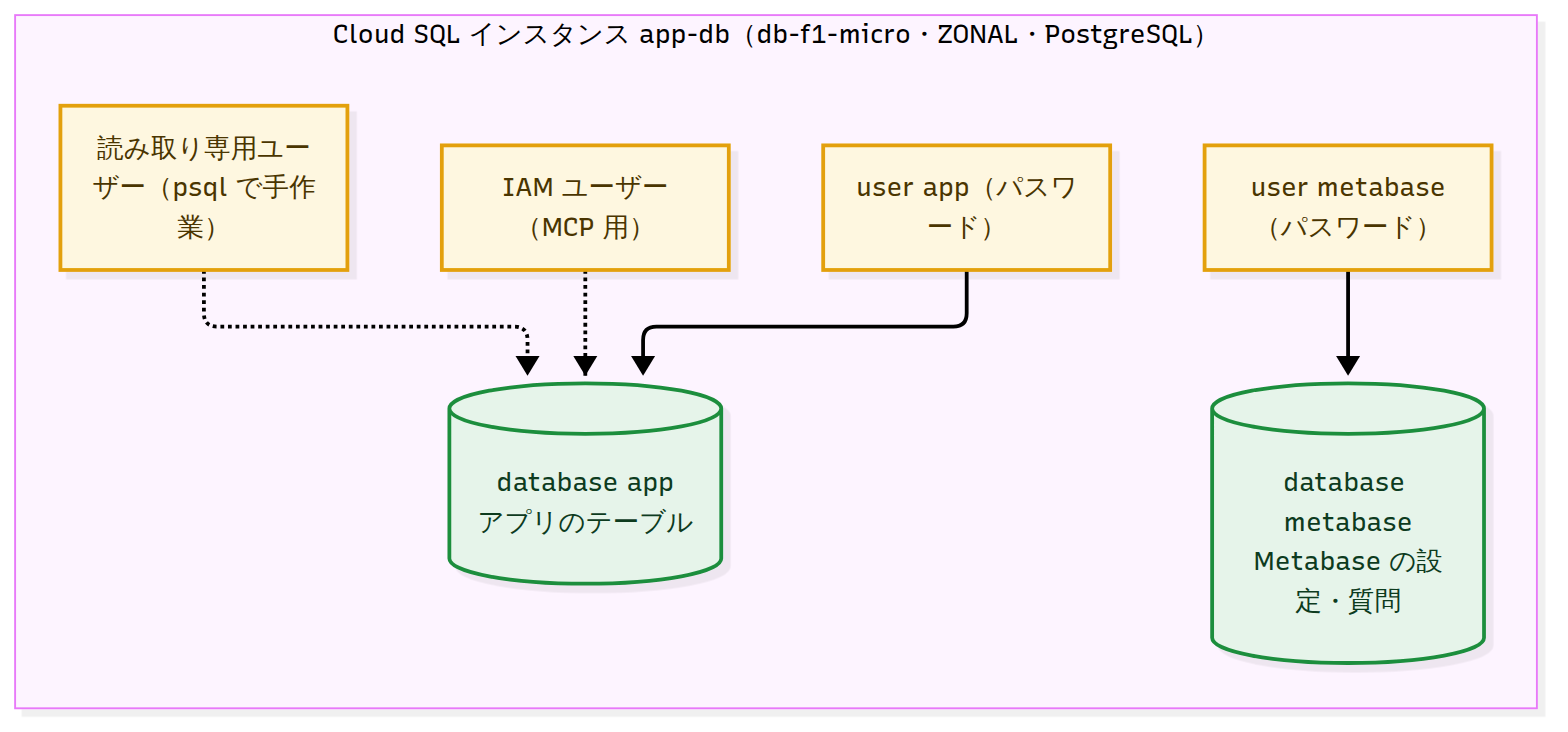
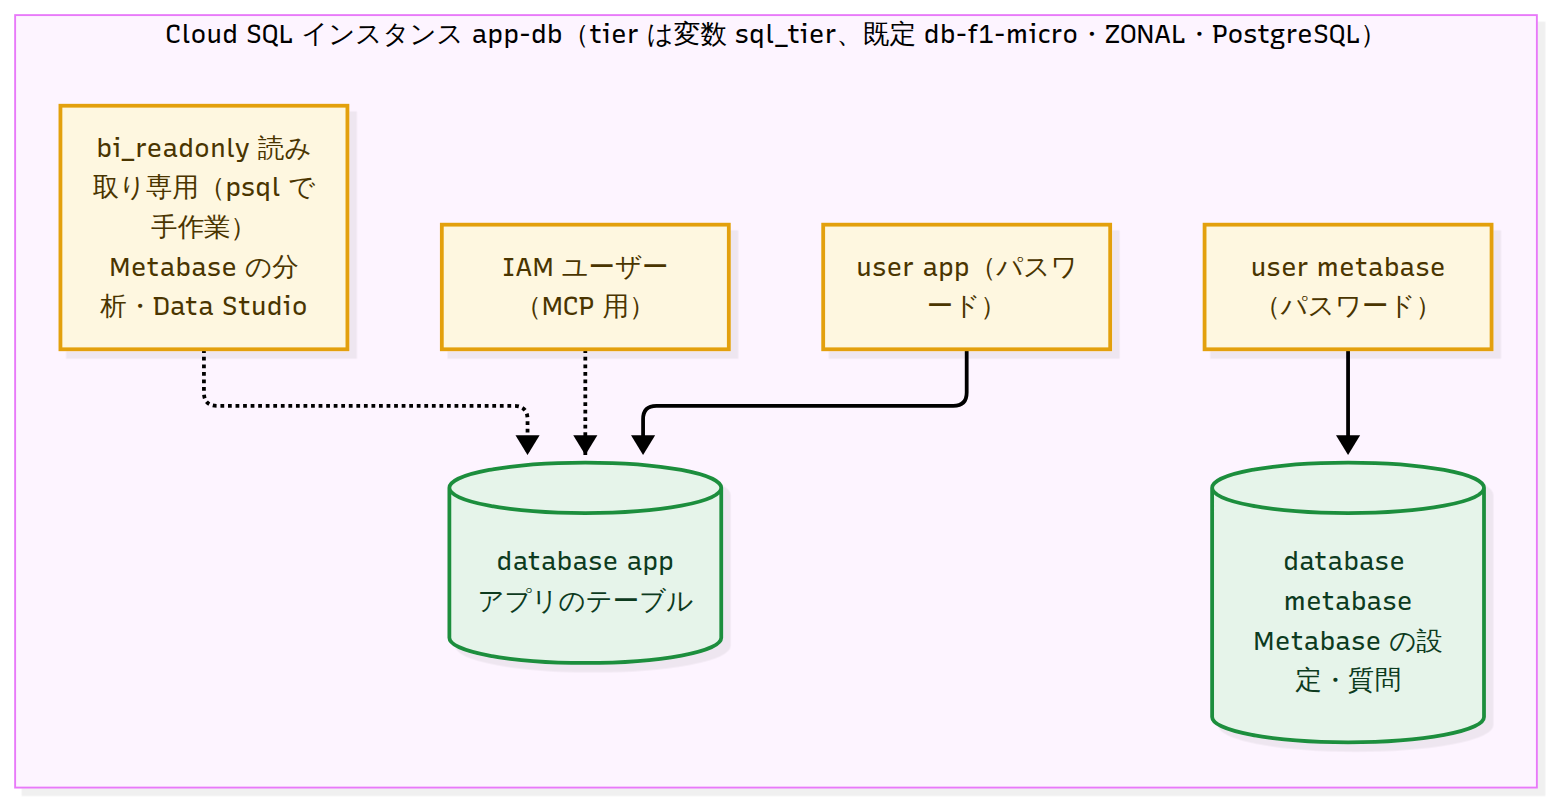
docs: reviewer の指摘で構成図の経路と render-diagrams のテストを直す
🎯 WHY
reviewer の検証で、図の不正確な点（Metabase から app DB への経路が無い・手動実行が prod 専用に見える）と、テストが見逃す変更（MMDC のクォート・Playwright からの Chromium の探し方）が見つかった。

📝 WHAT
- system: Metabase から DB app への bi_readonly の経路、Data Studio の bi_readonly、migrate job への線のラベル
- deploy: 手動実行は stg / prod、承認は required reviewers を付けたときだけ、失敗はどの step でも止まる
- iam: repo id の一致は設定したときだけ。database: tier は変数、bi_readonly の説明
- render-diagrams.test.ts: MMDC を 2 語で渡す、Playwright から Chromium を探す must pass / must reject を追加
- 作業ログ: 図のずれを CI で縛らない daiki の判断を記録

🛠 実装経緯
daiki の判断で、図と Terraform のずれは CI で検査せず、変えたときにスキルを呼ぶ運用にした。JSON へのパスの埋め込み（" を含むパス）は実害が小さいので直していない。

✅ 検証内容
- fault injection: "$MMDC" とクォート → 4 件落ちる、executablePath を存在しない関数に → 1 件落ちる
- 4 枚を描き直して画像を確認した
- vitest（render-diagrams・rule-tests）と pnpm lint / pnpm typecheck が通った

Claude-Session: https://claude.ai/code/session_012nsSevSuHt3gSWErv8VRZT

diff --git a/scripts/render-diagrams.test.ts b/scripts/render-diagrams.test.ts
@@ -63,12 +63,14 @@ afterEach(() => {
   rmSync(workDir, { recursive: true, force: true });
 });
 
-function run(env: Record<string, string>) {
-  return spawnSync("bash", [scriptPath, diagramsDir], {
+// WHY MMDC を 2 語にする: 既定の MMDC（pnpm dlx …）は空白を含み、スクリプトは単語に分けて呼ぶ。1 語の偽物だと、
+//   "$MMDC" とクォートして既定の呼び出しが壊れる変更を見逃す（reviewer の指摘）。
+function run(env: Record<string, string>, script = scriptPath) {
+  return spawnSync("bash", [script, diagramsDir], {
     encoding: "utf8",
     env: {
       ...process.env,
-      MMDC: fakeMmdc,
+      MMDC: `${fakeMmdc} --fake-subcommand`,
       PUPPETEER_EXECUTABLE_PATH: fakeBrowser,
       ...env,
     },
@@ -93,8 +95,8 @@ describe("render-diagrams.sh（must pass: 描く）", () => {
     // then
     expect(result.status).toBe(0);
     expect(calls()).toEqual([
-      `deploy.mmd -> deploy.png -s 2 -b white -q {"executablePath":"${fakeBrowser}","args":["--no-sandbox"]}`,
-      `system.mmd -> system.png -s 2 -b white -q {"executablePath":"${fakeBrowser}","args":["--no-sandbox"]}`,
+      `deploy.mmd -> deploy.png --fake-subcommand -s 2 -b white -q {"executablePath":"${fakeBrowser}","args":["--no-sandbox"]}`,
+      `system.mmd -> system.png --fake-subcommand -s 2 -b white -q {"executablePath":"${fakeBrowser}","args":["--no-sandbox"]}`,
     ]);
     expect(readFileSync(join(diagramsDir, "system.png"), "utf8")).toBe(
       "png of system.mmd\n",
@@ -120,6 +122,74 @@ describe("render-diagrams.sh（must pass: 描く）", () => {
       "system.mmd",
       "system.png",
     ]);
+  });
+});
+
+// PUPPETEER_EXECUTABLE_PATH が無いときに使う Chromium（E2E の Playwright）の探し方。スクリプトを一時ディレクトリの
+//   リポジトリの形（scripts/ と apps/e2e/）に置き、apps/e2e から読む @playwright/test を偽物にする。
+//   NODE_PATH は空にする（クラウドセッションの NODE_PATH の global の @playwright/test を拾わせない）。
+function scriptInFakeRepo(withPlaywright: boolean): string {
+  const fakeRepo = join(workDir, "repo");
+  mkdirSync(join(fakeRepo, "scripts"), { recursive: true });
+  mkdirSync(join(fakeRepo, "apps", "e2e"), { recursive: true });
+  writeFileSync(
+    join(fakeRepo, "scripts", "render-diagrams.sh"),
+    readFileSync(scriptPath, "utf8"),
+  );
+  if (withPlaywright) {
+    const playwright = join(
+      fakeRepo,
+      "apps",
+      "e2e",
+      "node_modules",
+      "@playwright",
+      "test",
+    );
+    mkdirSync(playwright, { recursive: true });
+    writeFileSync(
+      join(playwright, "index.js"),
+      `module.exports = { chromium: { executablePath: () => ${JSON.stringify(fakeBrowser)} } };\n`,
+    );
+  }
+  return join(fakeRepo, "scripts", "render-diagrams.sh");
+}
+
+describe("render-diagrams.sh（Chromium を Playwright から探す）", () => {
+  it("PUPPETEER_EXECUTABLE_PATH が無ければ、apps/e2e の Playwright が使う Chromium を puppeteer に渡す（must pass）", () => {
+    // given
+    writeFileSync(join(diagramsDir, "system.mmd"), "flowchart LR\n");
+    const script = scriptInFakeRepo(true);
+
+    // when
+    const result = run(
+      { PUPPETEER_EXECUTABLE_PATH: "", NODE_PATH: "" },
+      script,
+    );
+
+    // then
+    expect(result.status).toBe(0);
+    expect(calls()).toEqual([
+      `system.mmd -> system.png --fake-subcommand -s 2 -b white -q {"executablePath":"${fakeBrowser}","args":["--no-sandbox"]}`,
+    ]);
+  });
+
+  it("PUPPETEER_EXECUTABLE_PATH も Playwright も無ければ、何も描かずに失敗する（must reject）", () => {
+    // given
+    writeFileSync(join(diagramsDir, "system.mmd"), "flowchart LR\n");
+    const script = scriptInFakeRepo(false);
+
+    // when
+    const result = run(
+      { PUPPETEER_EXECUTABLE_PATH: "", NODE_PATH: "" },
+      script,
+    );
+
+    // then
+    expect(result.status).toBe(1);
+    expect(result.stderr).toBe(
+      "render-diagrams: Chromium が見つからない（未設定）。PUPPETEER_EXECUTABLE_PATH に Chrome / Chromium のパスを渡す\n",
+    );
+    expect(calls()).toEqual([]);
   });
 });
 

diff --git a/docs/work-logs/2026-10-02.md b/docs/work-logs/2026-10-02.md
@@ -642,4 +642,4 @@
 - 理由: daiki の「Terraform からシステム構成、Actions から deploy pipeline を図にするスキルにして。一括で latest に更新、docs 以下に画像を置く」。IAM まで全部載せる指示も受けて、全体・デプロイ・IAM・Cloud SQL の 4 枚にした。
 - 根拠: 図の元は `infra/modules/app/*.tf` と `.github/workflows/deploy.yml` を読んで書いた。画像は `PUPPETEER_EXECUTABLE_PATH=/opt/pw-browsers/chromium bash scripts/render-diagrams.sh` で作り、4 枚とも開いて読めることを確かめた。mermaid-cli は 12.0.0（`npm view @mermaid-js/mermaid-cli time`、公開 2026-09-24）を `pnpm dlx` で使い、devDependencies に入れない（puppeteer など約 190 個の依存が CI の install に乗るため）。`rule-tests/instructions` の adr-only（Issue #96 で docs/ を ADR と作業ログだけにした）に `docs/diagrams/` を足した。記録ではなくコードから作り直す生成物なので、Issue #96 の二重管理の理由には当たらないと判断した。
 - 判断: Data Studio・MCP・Metabase の分析の経路のうち、Terraform に無いもの（psql で作る読み取り専用ユーザー）はラベルに「手作業」と書いて区別した。Cloud SQL は既に 1 インスタンスに database 2 つ（app / metabase）で、daiki の「1 インスタンスにまとめたい」は今の形のままでよいと回答した。migrate 用のイメージを 1 つにまとめる依頼は別の作業なので、別スレッドに回した。
-- 機械化: 縛れる（`scripts/render-diagrams.test.ts` が描く対象・引数・失敗の条件を固定し、`rule-tests/instructions` が docs/ の置き場所を固定する）。図が Terraform と食い違わないことは縛っていない（入力のハッシュを記録して比べれば縛れるが、infra/ を変える PR のたびに図の作り直しが必須になるので、daiki の判断を待つ）
+- 機械化: 縛れる（`scripts/render-diagrams.test.ts` が描く対象・引数・失敗の条件を固定し、`rule-tests/instructions` が docs/ の置き場所を固定する）。図が Terraform と食い違わないことは縛らない（入力のハッシュを記録して比べれば縛れるが、infra/ を変える PR のたびに図の作り直しが必須になる。daiki の判断 2026-10-02「入れない。変えたときにスキルを呼ぶ運用」）
